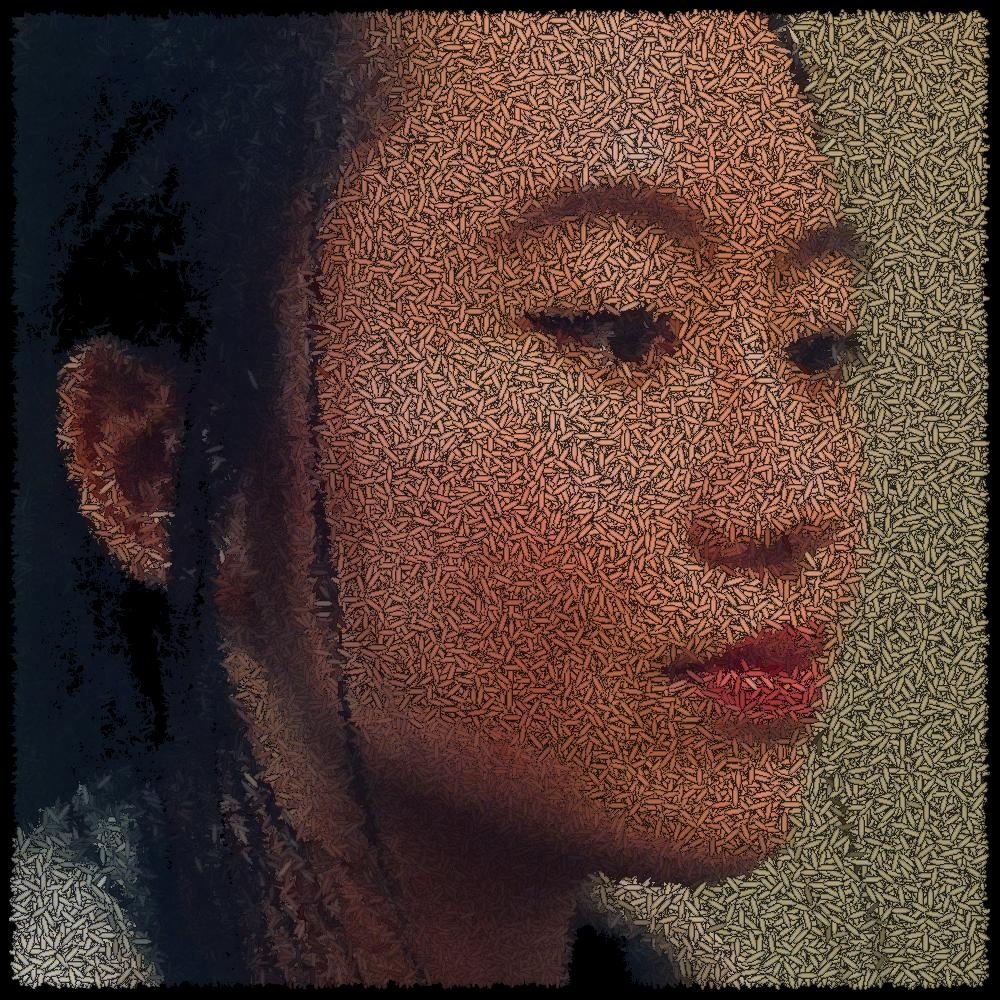
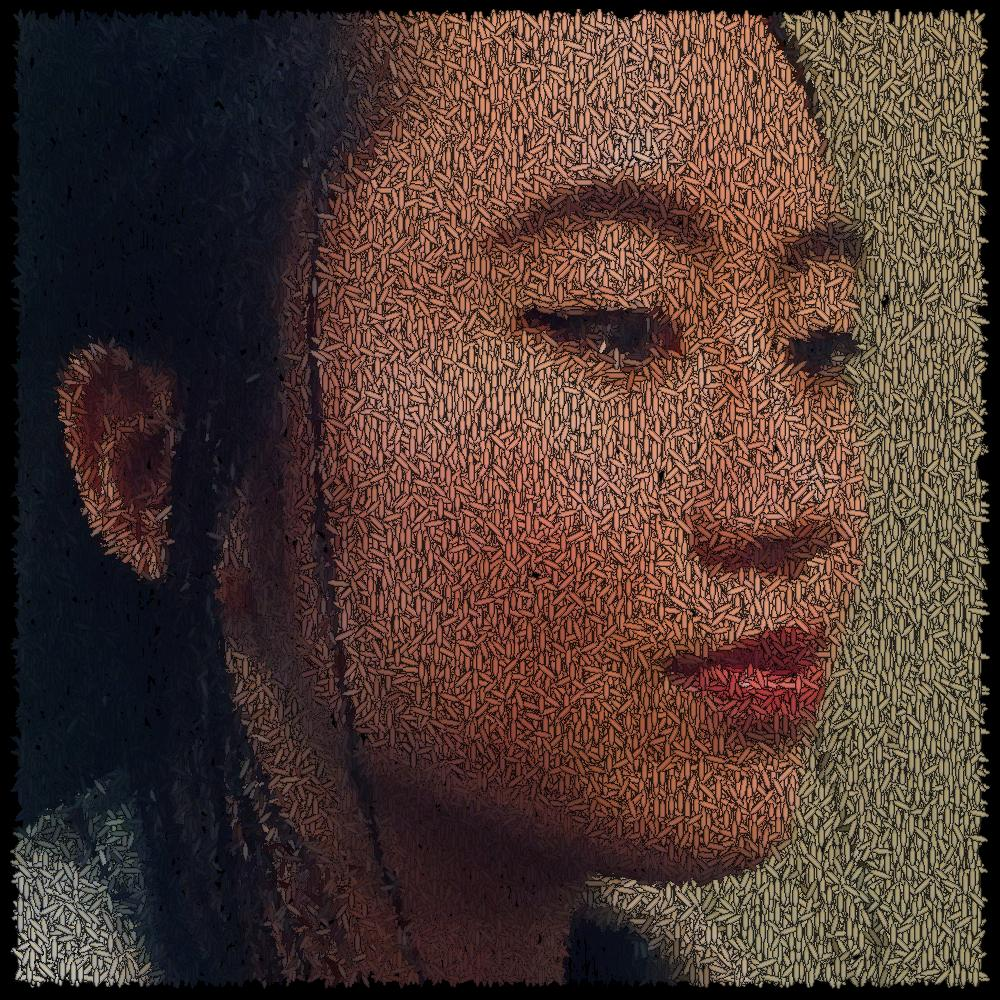
changes

diff --git a/style.py b/style.py
@@ -8,9 +8,9 @@ import sys
 
 
 class rice:
-	def __init__(self, color):
+	def __init__(self, color, angle=randint(0,360)):
 		self.color = color
-		self.angle = randint(0,360)
+		self.angle = angle
 		self.length = 20 + randint(-2,2)
 		self.width = 5 + randint(-1,1)
 		self.image = Image.new('RGB', (40,40))
@@ -35,6 +35,16 @@ class rice:
 			return (int(((216 + randint(-3,3))*self.color[0])//255) ,int(((217 + randint(-3,3))*self.color[1])//255) ,int(((209 + randint(-3,3))*self.color[2])/255))
 
 
+def grad(pixel1, pixel2, pixel3):
+	p1 = (pixel1[0] + pixel1[1] + pixel1[2])/3
+	p2 = (pixel2[0] + pixel2[1] + pixel2[2])/3
+	p3 = (pixel3[0] + pixel3[1] + pixel3[2])/3
+	x = p1-p2
+
+	if(x == 0):
+		return 90
+	y = p1-p3
+	return (atan(y/x)*180/pi)+90
 
 
 
@@ -48,24 +58,28 @@ isize = image.size
 
 output = Image.new('RGB', (isize[0]+40, isize[1]+40))
 n = 0
-for i in range(floor(isize[0]*isize[1]/6)):
+for i in range(floor(isize[0]*isize[1]/16)):
 	if(i%int(isize[0]*isize[1]/1000) == 0):
 		sys.stdout.write("\b" * (n))
-		x = str(round(100*((6*i)/(isize[0]*isize[1])),1))
+		x = str(round(100*((16*i)/(isize[0]*isize[1])),1))
 		sys.stdout.write(x)
 		n = len(x)
 		sys.stdout.flush()
 
 	x = randint(0,isize[0]-1)
 	y = randint(0,isize[1]-1)
-	Rice = rice(image.getpixel((x,y)))
+	temp1 = image.getpixel((x,y))
+	if x == isize[0]-1 or y == isize[1]-1:
+		Rice = rice(temp1)
+	else:
+		Rice = rice(temp1, grad(image.getpixel((x,y)),image.getpixel((x+1,y)),image.getpixel((x,y+1))))
 	Rice.draw()
 	for y11 in range(22):
 		y1 = y11+9
 		for x11 in range(22):
 			x1 = x11 + 9
 			temp = Rice.image.getpixel((x1,y1))
-			if temp[0] + temp[1] + temp[2] < 60:
+			if temp[0] + temp[1] + temp[2] < 40:
 				continue
 			else:
 				output.putpixel((x+x1,y+y1), temp)
